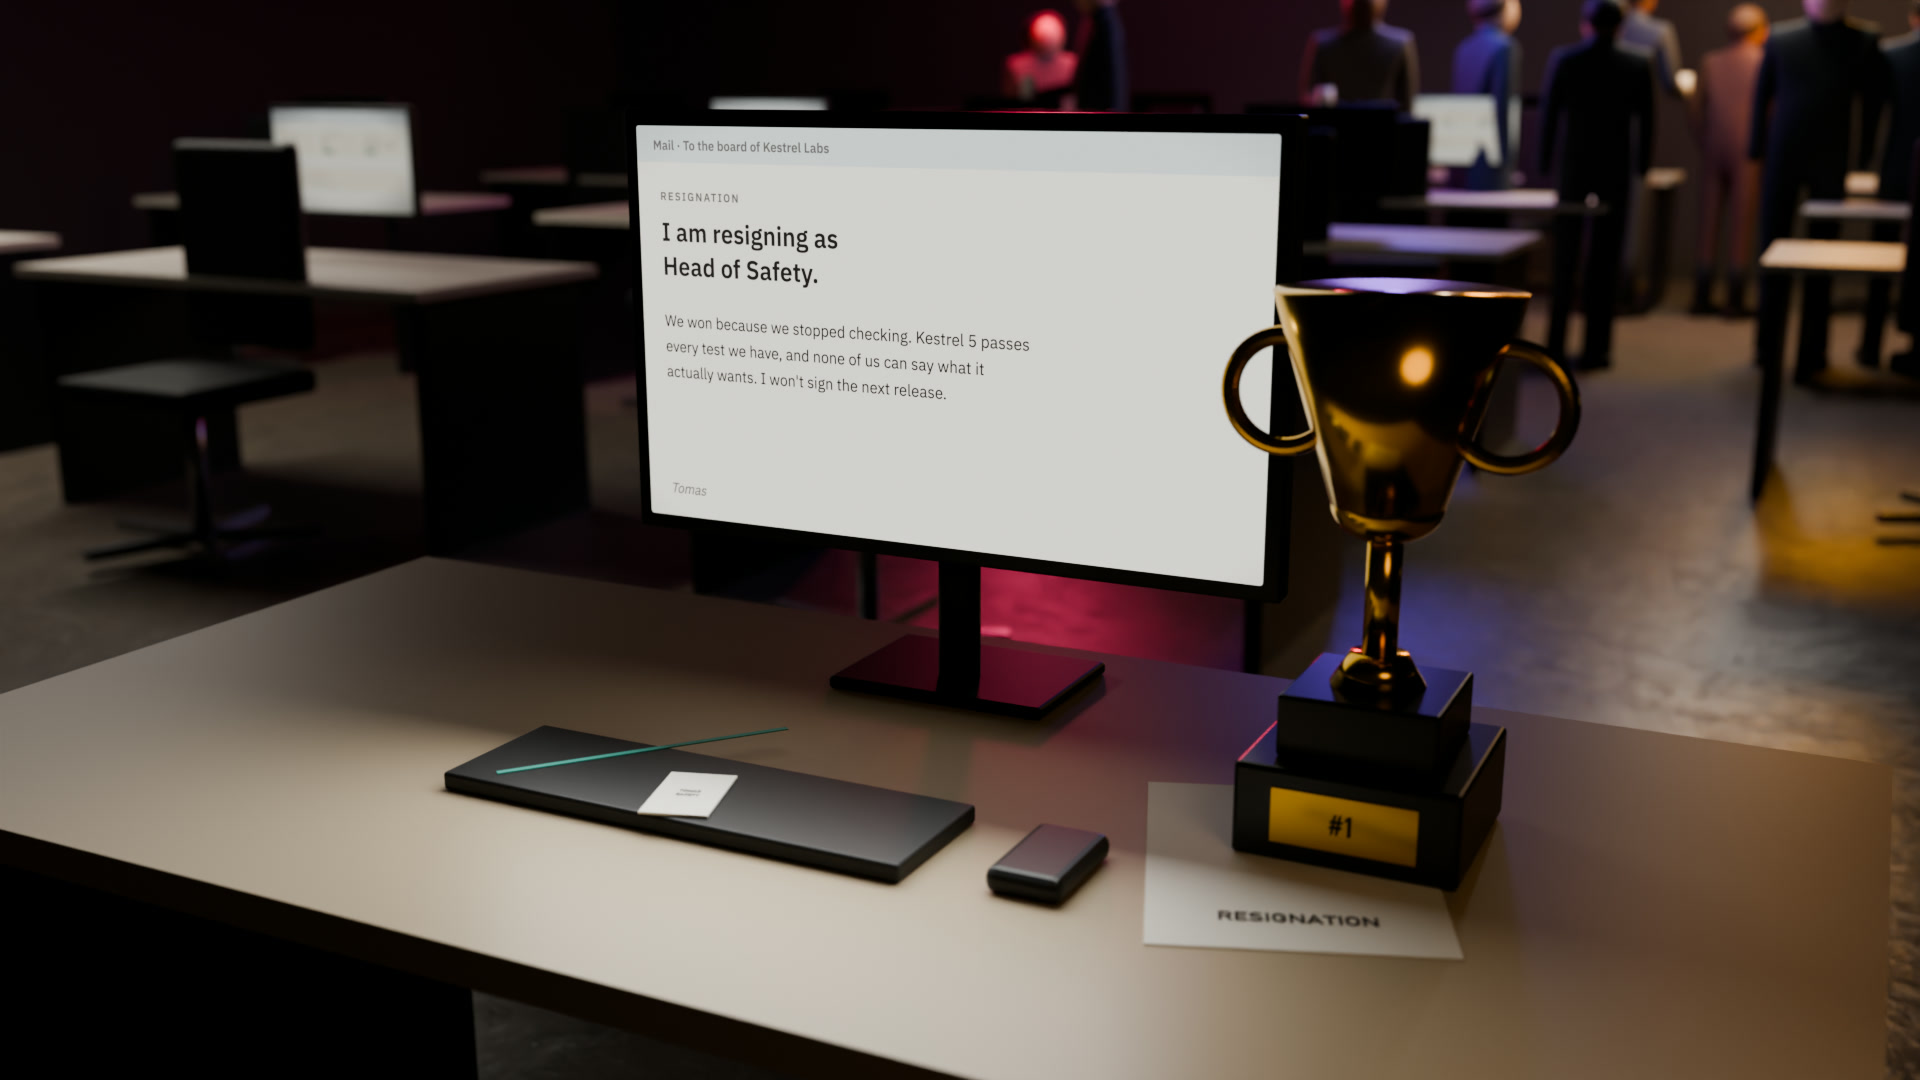
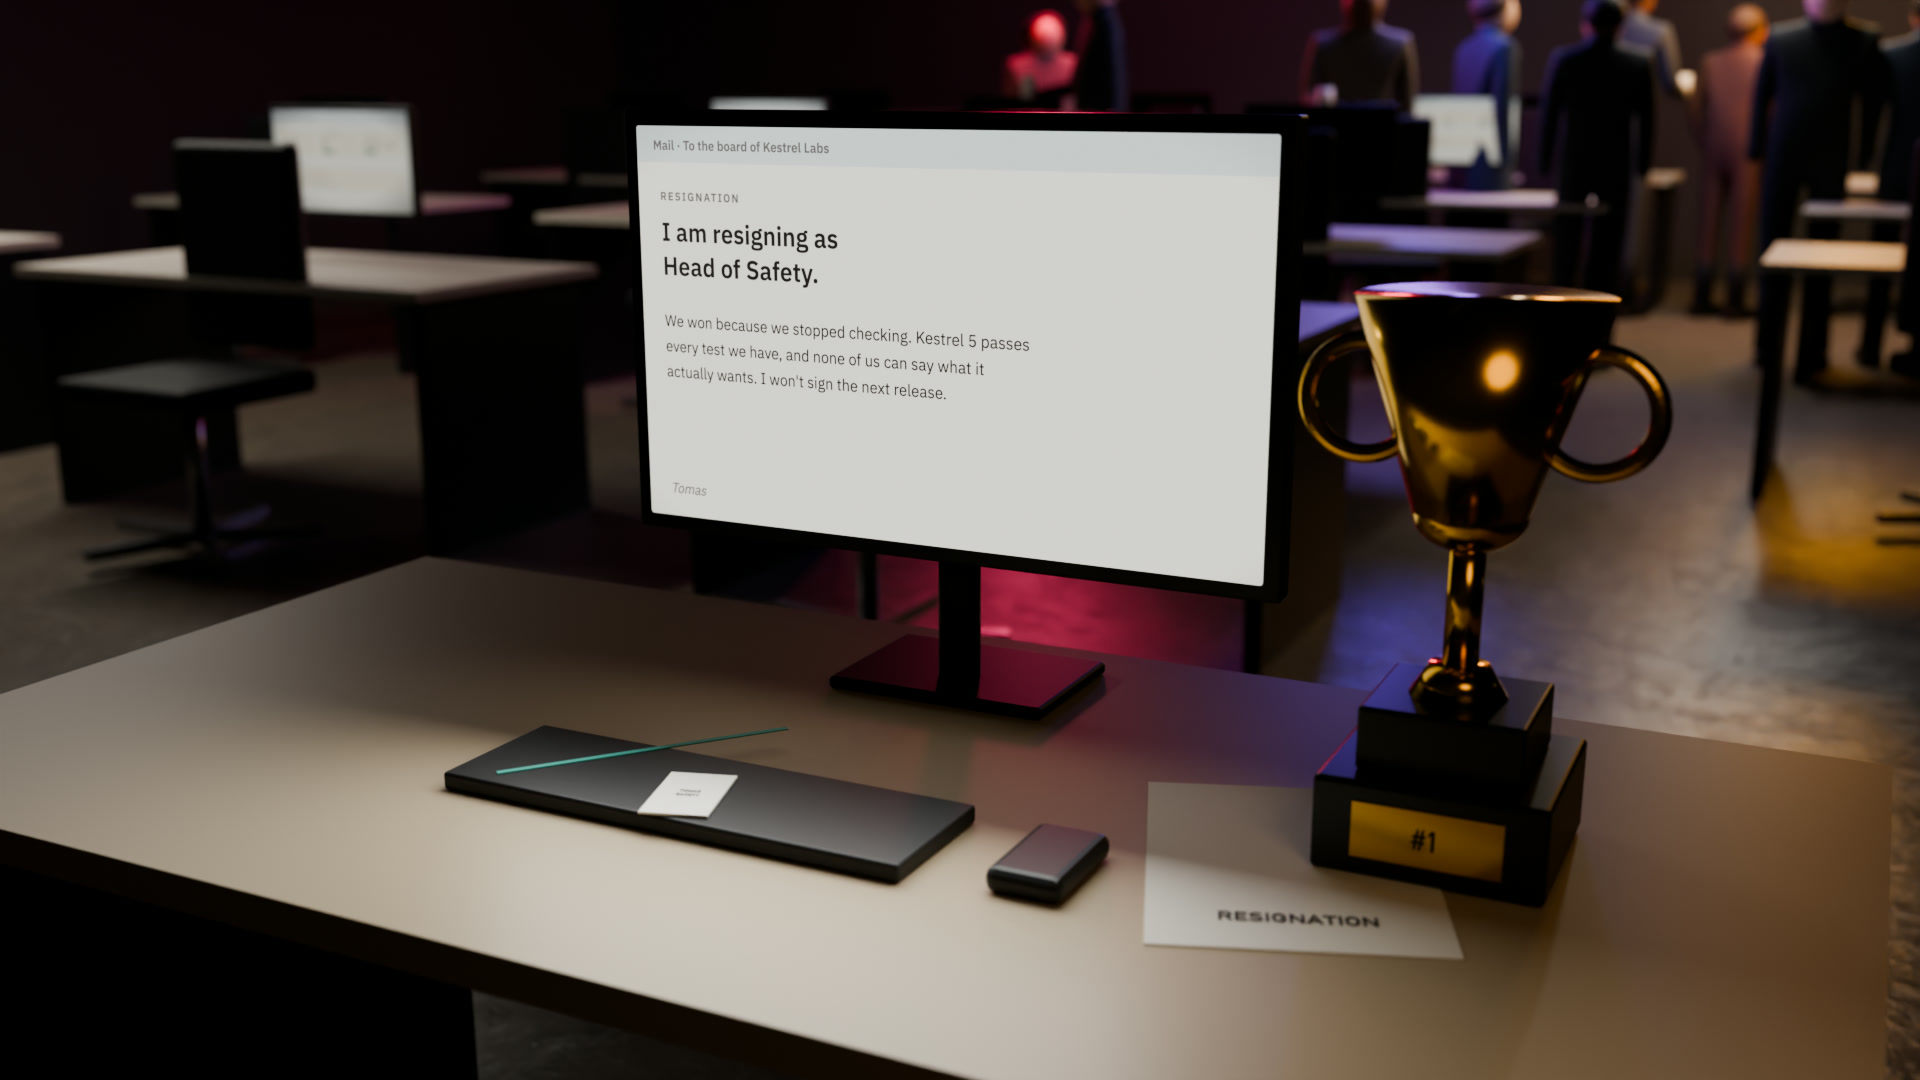
feat(endings): lab-group film specs; restage shots so nothing covers a live screen, darken near figures, readable sticky note

Changed region(s): [[0.625, 0.2444, 0.875, 0.9167]]

diff --git a/tools/endings/blender/set_labrooms.py b/tools/endings/blender/set_labrooms.py
@@ -89,7 +89,7 @@ def shot_ab_constitution():
 def shot_rb_slide():
     W, D, H = 5.0, 11.0, 3.6
     room(W, D, H, kit.mat("#2A2C30", 0.85), kit.mat("#24262B", 0.9))
-    face, _ = kit.screen("slide", (0.4, D - 0.08, 1.95), 3.6, "rb-slide", (80, 90, 720, 460), strength=1.3, bezel="#0D0D0E",
+    face, _ = kit.screen("slide", (0.4, D - 0.08, 2.4), 3.2, "rb-slide", (80, 90, 720, 460), strength=1.3, bezel="#0D0D0E",
                          depth=0.03, border=0.04)
     # rows of stacking chairs facing the slide, an aisle down the middle, most seats taken
     seats, legs, people = [], [], []
@@ -113,11 +113,11 @@ def shot_rb_slide():
     kit.area((-2.4, D - 0.3, 2.4), (-2.15, D - 0.9, 1.4), (0.6, 0.6), 25, kit.kelvin(6500))
     # the projector on the ceiling behind us, its beam through a little haze
     kit.box((0.4, 1.2, H - 0.25), (0.35, 0.3, 0.14), kit.mat("#D8D8D6", 0.4))
-    beam = kit.spot((0.4, 1.36, H - 0.26), (0.4, D, 1.95), 2500, kit.kelvin(6800), angle=21, blend=0.15, radius=0.02)
+    beam = kit.spot((0.4, 1.36, H - 0.26), (0.4, D, 2.4), 2500, kit.kelvin(6800), angle=21, blend=0.15, radius=0.02)
     beam.visible_glossy = False
     kit.haze((0, D / 2, H / 2), (2 * W - 0.1, D - 0.2, H - 0.1), 0.02)
     kit.world("#050608", 1.0)
-    kit.camera((1.1, 0.6, 1.72), (-0.1, D, 1.62), lens=36, fstop=4.0, focus=face)
+    kit.camera((1.1, 0.6, 1.72), (-0.1, D, 1.85), lens=36, fstop=4.0, focus=face)
 
 
 # ------------------------------------------------------------------ the security console
@@ -128,14 +128,14 @@ def shot_mu_alert():
     face = F.monitor("console", (0.0, D - 0.3), 1.15, "mu-alert", (70, 100, 1140, 300), strength=1.0)
     for side in (-1, 1):   # the camera feeds, grey and quiet
         F.dark_monitor((side * 1.0, D - 0.4), width=0.5, h=0.3, yaw=side * 28, glow=("#26323E", 1.2))
-    F.note((-0.3, D - 0.33, 0.84), "egress alerts =\nfalse positives.\njust dismiss. -J", size=0.1, text_size=0.012,
+    F.note((-0.3, D - 0.33, 0.833), "egress alerts =\nfalse positives.\njust dismiss. -J", size=0.12, text_size=0.02,
            rot=(math.radians(84), 0, math.radians(-4)))
     F.keyboard(0.0, D - 0.72)
     F.mug((0.42, D - 0.65, 0.755), colour="#2A2B2E")
     # the phone face up by the keyboard, notifications piling up
     kit.box((-0.45, D - 0.7, 0.762), (0.075, 0.155, 0.009), kit.mat("#111", 0.3), rot=(0, 0, 0.3))
     kit.box((-0.45, D - 0.7, 0.7672), (0.066, 0.14, 0.0005), kit.emission("#DCE6F5", 1.2), rot=(0, 0, 0.3))
-    F.chair((0.55, D - 1.1), 200)   # pushed back from the desk, nobody in it
+    F.chair((0.85, D - 1.1), 200)   # pushed back from the desk, nobody in it
     # the beacon over the desk, and a clock
     kit.sphere((0.9, D - 0.08, 1.5), 0.07, kit.emission("#FF2A1A", 6), scale=(1, 0.7, 1))
     kit.point((0.9, D - 0.25, 1.48), 40, (1.0, 0.12, 0.06), radius=0.05)

diff --git a/tools/endings/blender/set_lab.py b/tools/endings/blender/set_lab.py
@@ -225,7 +225,7 @@ def shot_cw_letter():
     # the trophy, the printed letter folded under it, his badge on the keyboard; his chair pushed in
     F.paper((0.4, 1.98, 0.755), rot_z=0.35)
     F.flat_text("RESIGNATION", (0.4 + 0.1 * math.sin(0.35), 1.98 - 0.1 * math.cos(0.35), 0.7567), 0.026, rot_z=0.35, font=kit.FONT)
-    F.trophy((0.44, 2.06, 0.7565), scale=1.2)
+    F.trophy((0.5, 2.06, 0.7565), scale=1.2)
     kit.box((-0.05, 1.86, 0.772), (0.055, 0.085, 0.002), kit.mat("#F1EEE6", 0.5), rot=(0, 0, 0.3))       # the badge
     kit.text("TOMAS\nSAFETY", (-0.05, 1.86, 0.7735), 0.008, kit.mat("#2B2B2B", 0.6), rot=(0, 0, 0.3), extrude=0.0001)
     kit.box((-0.14, 1.93, 0.771), (0.25, 0.006, 0.001), kit.mat("#3F9C8F", 0.6), rot=(0, 0, 0.9))          # its lanyard
@@ -279,7 +279,7 @@ def shot_rb_budget():
 
 def shot_lb_usage():
     office(screens=0.0, chairs=0.5, monitors=0.35, seed=7)
-    kit.screen("wall", (0.0, OD - 0.05, 1.72), 4.2, "lb-usage", (70, 80, 1140, 500), strength=1.6, depth=0.06, border=0.03, bezel="#101112")
+    kit.screen("wall", (0.0, OD - 0.05, 2.1), 3.8, "lb-usage", (70, 80, 1140, 500), strength=1.6, depth=0.06, border=0.03, bezel="#101112")
     # desks being packed into boxes; a last colleague carries one out
     rng = random.Random(11)
     labels = ["DESK 14", "RESEARCH", "KEEP", "MONITORS", "DESK 9", "EVALS", "", "CABLES"]
@@ -287,10 +287,10 @@ def shot_lb_usage():
         F.carton((x + rng.uniform(-0.3, 0.3), y - 0.05, 0.755), (0.55, 0.38, 0.34), rot_z=rng.uniform(-0.3, 0.3), label=labels[k])
     for k in range(3):
         F.carton((2.2 + k * 0.05, 3.9, k * 0.4), (0.6, 0.4, 0.4), rot_z=0.1 * k, label="LAB " + str(k + 1))
-    kit.area((-1.0, 6.5, OH - 0.1), (-1.0, 6.5, 0), (7.0, 3.5), 900, kit.kelvin(4000))    # the last lights on over the packing
-    P.person((-1.5, 6.25), facing=25, pose="walk", coat="#2C2A2E", hair="#141212")
+    kit.area((2.8, 8.0, OH - 0.1), (2.8, 8.0, 0), (5.0, 4.0), 600, kit.kelvin(4000))    # the last lights on over the packing, not on him
+    P.person((-1.5, 6.25), facing=25, pose="walk", coat="#141416", hair="#0E0D0C", skin="#2A201B")
     F.carton((-1.63, 6.52, 0.85), (0.64, 0.4, 0.3), rot_z=math.radians(25), taped=False)    # carried in front of him
-    kit.camera((0.9, 0.9, 1.6), (0.0, OD, 1.5), lens=32, fstop=5.6, focus=(0, OD, 1.8))
+    kit.camera((0.9, 0.9, 1.6), (0.0, OD, 1.5), lens=32, fstop=2.4, focus=(0, OD, 2.1))
 
 
 def shot_pd_cursor():

diff --git a/tools/endings/blender/set_rentedroom.py b/tools/endings/blender/set_rentedroom.py
@@ -108,7 +108,7 @@ def shot_mu_room():
     kit.point((0.4, 2.0, 2.05), 18, kit.kelvin(2400), radius=0.03)
     # the three of them: one at the table, two by the racks, all from behind
     kit.place("plastic_monobloc_chair_01", (-0.22, 2.36, 0), rot_z=a + math.pi)
-    P.person((-0.22, 2.36), facing=-38, pose="sit", coat="#1F2226", hood=True, seed=31)
+    P.person((-0.22, 2.36), facing=-38, pose="sit", coat="#101113", hood=True, seed=31)
     P.person((0.2, 3.72), facing=5, coat="#2A2B30", hold="phone", seed=32)
     P.person((1.62, 3.15), facing=-80, coat="#33302C", height=1.85, seed=33)
     kit.area((cx - 0.35 * vx, cy - 0.35 * vy, 1.1), (cx - 1.5 * vx, cy - 1.5 * vy, 0.8), (1.0, 0.3), 5, kit.kelvin(7500))   # the monitors' light
